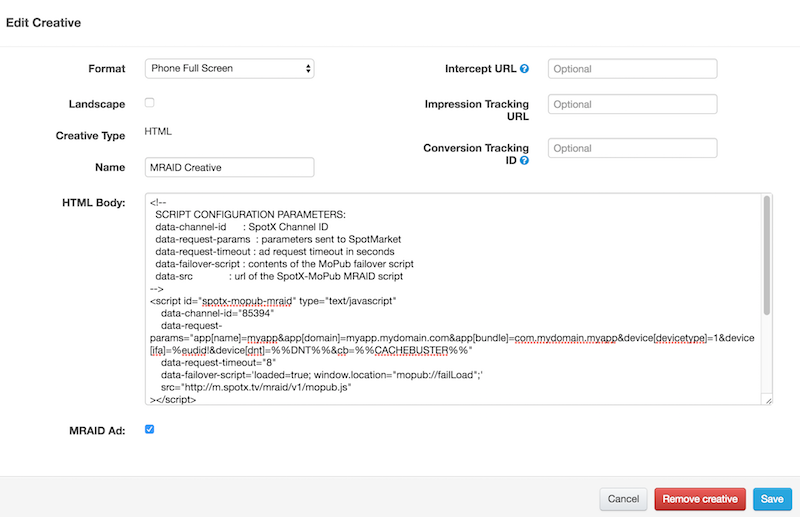
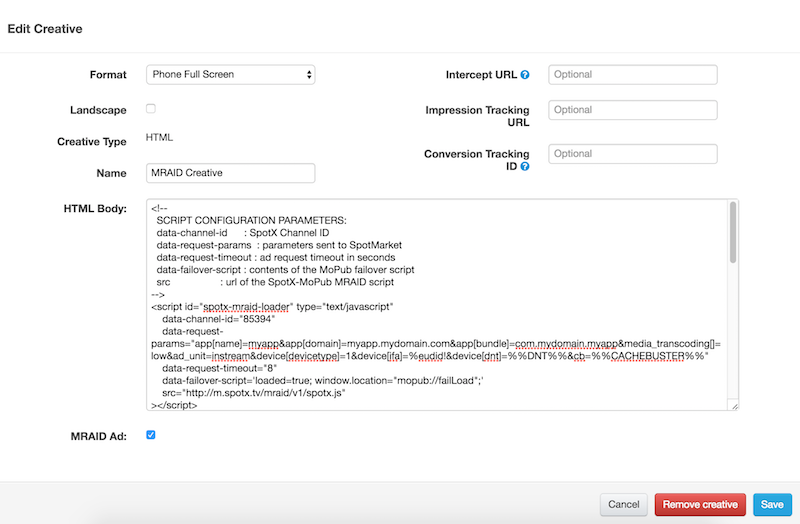
Addressed issues with low bandwidth connections and documented additional parameters.

diff --git a/mraid.html b/mraid.html
@@ -6,22 +6,44 @@
   data-failover-script : contents of the MoPub failover script
   src                  : url of the SpotX-MoPub MRAID script
 -->
-<script id="spotx-mopub-mraid" type="text/javascript"
+<script id="spotx-mraid-loader" type="text/javascript"
     data-channel-id="REPLACE_CHANNEL_ID"
-    data-request-params="app[name]=REPLACE_ME&app[domain]=REPLACE_ME&app[bundle]=REPLACE_ME&device[devicetype]=1&device[ifa]=%eudid!&device[dnt]=%%DNT%%&cb=%%CACHEBUSTER%%"
+    data-request-params="app[name]=REPLACE_ME&app[domain]=REPLACE_ME&app[bundle]=REPLACE_ME&media_transcoding[]=low&ad_unit=instream&device[devicetype]=1&device[ifa]=%eudid!&device[dnt]=%%DNT%%&cb=%%CACHEBUSTER%%"
     data-request-timeout="8"
     data-failover-script='loaded=true; window.location="mopub://failLoad";'
-    src="http://m.spotx.tv/mraid/v1/mopub.js"
+    src="http://m.spotx.tv/mraid/v1/spotx.js"
 ></script>
 <!-- ************************** DO NOT MODIFY BELOW THIS LINE ************************** -->
-<script id="spotx-mopub-do-not-modify" type="text/javascript"
+<script type="text/javascript" src="mraid.js"></script>
+<script id="spotx-mraid-do-not-modify" type="text/javascript"
   data-src-timeout="5">
   (function () {
+    function waitFor(name, callback) {
+      // wait for the named object to be available
+      var id = window.setInterval(function () {
+        if (typeof window[name] !== "undefined") {
+          window.clearInterval(id);
+          callback();
+        }  
+      }, 50);
+    }
+    // wait for the page to finish loading before looking for the mraid and oAdOS objects
+    window.addEventListener("load", function load() {
+      window.removeEventListener("load", load, false);
+      waitFor("mraid", function() {
+        mraid.addEventListener("ready", function () {
+          //HACK: make sure orientation changes are disabled!
+          mraid.setOrientationProperties( {"allowOrientationChange":false} );
+          mraid.useCustomClose(true);
+        });
+      });
+    }, false);
+    
     // check for the loading of the spotx-mopub-mraid.js script - failover if not loaded
     window.setTimeout(function () {
-      if (!window["_spotx_mopub_loaded"]) {
-        eval(document.getElementById("spotx-mopub-mraid").getAttribute("data-failover-script"));
+      if (!window["_spotx_mraid_loaded"]) {
+        eval(document.getElementById("spotx-mraid-loader").getAttribute("data-failover-script"));
       }
-    }, 1000 * document.getElementById("spotx-mopub-do-not-modify").getAttribute("data-src-timeout"));
+    }, 1000 * document.getElementById("spotx-mraid-do-not-modify").getAttribute("data-src-timeout"));
   })();
 </script>

diff --git a/README.md b/README.md
@@ -16,12 +16,12 @@ since the functionality is identical.
 
 To customize the script you should only edit the `data-...` parameters of the `spotx-mopub-mraid` script tag.
 ```html
-<script id="spotx-mopub-mraid" type="text/javascript"
+<script id="spotx-mraid-loader" type="text/javascript"
     data-channel-id="85394"
-    data-request-params="app[name]=myapp&app[domain]=myapp.mydomain.com&app[bundle]=com.mydomain.myapp&device[devicetype]=1&device[ifa]=%eudid!&device[dnt]=%%DNT%%&cb=%%CACHEBUSTER%%"
+    data-request-params="app[name]=myapp&app[domain]=myapp.mydomain.com&app[bundle]=com.mydomain.myapp&media_transcoding[]=low&ad_unit=instream&device[devicetype]=1&device[ifa]=%eudid!&device[dnt]=%%DNT%%&cb=%%CACHEBUSTER%%"
     data-request-timeout="8"
     data-failover-script='loaded=true; window.location="mopub://failLoad";'
-    src="http://m.spotx.tv/mraid/v1/mopub.js"
+    src="http://m.spotx.tv/mraid/v1/spotx.js"
 ></script>
 ```
 
@@ -30,13 +30,13 @@ To customize the script you should only edit the `data-...` parameters of the `s
 |`data-channel-id`       | The SpotX Channel ID to use for the SpotMarket request. |
 |`data-request-params`   | Name value pairs after the `'?'` in the SpotMarket request url. |
 |`data-request-timeout`  | The number of seconds to wait for the SpotMarket request to complete. |
-|`data-failover-script`  | The MoPub script called when a failover condition occurrs.<br/><br/>**Do not modify this parameter**, unless there are changes to the current MoPub MRAID container specification - see the Failover tag section in the MoPub Custom Networks document. |
-|`src`                   | The url to the SpotX `mopub.js` script file.<br/><br/>**Do not modify this parameter**, unless the location or version of the script file changes. |
+|`data-failover-script`  | The script called when a failover condition occurrs.<br/><br/>**Do not modify this parameter**, unless there are changes to the current MoPub MRAID container specification - see the Failover tag section in the MoPub Custom Networks document. |
+|`src`                   | The url to the SpotX MRAID `spotx.js` script file.<br/><br/>**Do not modify this parameter**, unless the location or version of the script file changes. |
 
 
-In the current `mraid.html` and `mraid.min.html` files you must update the `data-channel-id` and `data-request-params` parameters with the proper information. 
+In the current `mraid.html` file, you must update the `data-channel-id` and `data-request-params` parameters with the proper information. 
 ```html
-<script id="spotx-mopub-mraid" type="text/javascript"
+<script id="spotx-mraid-loader" type="text/javascript"
   data-channel-id="REPLACE_CHANNEL_ID"
   data-request-params="app[name]=REPLACE_ME&app[domain]=REPLACE_ME&app[bundle]=REPLACE_ME&device[devicetype]=1&device[ifa]=%eudid!&device[dnt]=%%DNT%%&cb=%%CACHEBUSTER%%";
     ...
@@ -81,9 +81,19 @@ The following table contains the currently supported parameters:
 > <sup>1</sup> The parameter values may be found in the [OpenRTB API Specification 2.2](http://www.iab.com/wp-content/uploads/2015/06/OpenRTBAPISpecificationVersion2_2.pdf).<br/>
 > <sup>2</sup> IDFA, Android Advertising ID (if Google Play Services is integrated), or SHA1 Hashed Android Device ID (if Google Play Services is unavailable).  Macro typically used for the `device[ifa]` parameter.<br/>
 > <sup>3</sup> While `device[geo][lon]` and `device[geo][lat]` are optional, if either parameter is specified, then the other parameter must be specified.  The substitution of these
-values may not occur if the MRAID container app does not provide location services. 
+values may not occur if the MRAID container app does not provide location services.
 
-###SpotX Custom Parameters
+###SpotX Optional Parameters
+The following parameters are specific to the operation of SpotMarket and the Ad player.  These parameters are optional.
+
+|Parameter              | Description / Example | Type | Usage |
+|-----------------------|-----------------------|------|-------|
+|`skippable`            | Is the advertisement skippable (1 = skippable, 0 or undefined = not skippable). | Integer | `skippable=1` |
+|`skippable_time`       | Number of milliseconds from the ad start after which the ad is considered skippable. | Integer | `skippable_time=5000` |
+|`media_transcoding[]`  | Media transcoding is provided to Spotmarket as a string or an array of values, with the following 3 options: `low`, `medium`, or `high`. (MRAID requests will default to `low`) | String or Array | `media_transcoding[]=low&media_transcoding[]=medium` |
+|`ad_unit`              | Set the type of ad unit to be used. Can be `instream`, or `incontent`. | String | `ad_unit=instream` |
+
+###SpotX Internal Parameters
 There are additional parameters that are custom to SpotX.  These parameters are required, and will be automatically appended to the SpotMarket request url.
 **You should not specify these parameters.**  The details of these parameters are provided here for completeness.
 
@@ -93,7 +103,7 @@ There are additional parameters that are custom to SpotX.  These parameters are 
 |`autoplay`             | Automatically begin playing the creative when ready. | `autoplay=1` |
 |`prefetch`             | Fetch the creative on the server, at the time of the request. | `prefetch=1` |
 
-##Error Handling - MoPub Failover
+##Error Handling - MoPub Specific Failover
 MoPub provides a custom failover tag that may be executed in certain error conditions, such as network
 timeout, or no eligible ad available (no fill).  The MRAID script will automatically call the MoPub failover
 tag when these types of errors are detected.
